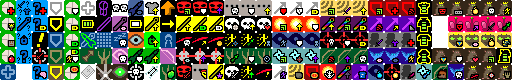
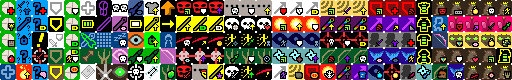
added big rush

Changed region(s): [[0.8438, 0.2, 0.875, 0.6], [0.0938, 0.4, 0.125, 0.6], [0.0312, 0.8, 0.0625, 1.0]]

diff --git a/core/src/main/java/com/zrp200/rkpd2/actors/hero/Talent.java b/core/src/main/java/com/zrp200/rkpd2/actors/hero/Talent.java
@@ -76,7 +76,7 @@ public enum Talent {
 	//Warrior T1
 	HEARTY_MEAL(0), ARMSMASTERS_INTUITION(1), TEST_SUBJECT(2), IRON_WILL(3),
 	//Warrior T2
-	IRON_STOMACH(4), RESTORED_WILLPOWER(5), RUNIC_TRANSFERENCE(6), LETHAL_MOMENTUM(7), IMPROVISED_PROJECTILES(8),
+	IRON_STOMACH(4), RESTORED_WILLPOWER(5), RUNIC_TRANSFERENCE(6), LETHAL_MOMENTUM(7), IMPROVISED_PROJECTILES(8), BIG_RUSH(67),
 	//Warrior T3
 	HOLD_FAST(9, 3), STRONGMAN(10, 3),
 	//Berserker T3
@@ -93,7 +93,7 @@ public enum Talent {
 	//Mage T1
 	ENERGIZING_MEAL_I(36), SCHOLARS_INTUITION(33), TESTED_HYPOTHESIS(34), BACKUP_BARRIER(35),
 	//Mage T2
-	ENERGIZING_MEAL_II(36), ENERGIZING_UPGRADE(37), WAND_PRESERVATION(38), ARCANE_VISION(39), SHIELD_BATTERY(40),
+	ENERGIZING_MEAL_II(36), ENERGIZING_UPGRADE(37), WAND_PRESERVATION(38), ARCANE_VISION(39), SHIELD_BATTERY(40), PYROMANIAC(129),
 	//Mage T3
 	EMPOWERING_SCROLLS(41, 3), ALLY_WARP(42, 3),
 	//Battlemage T3
@@ -110,7 +110,7 @@ public enum Talent {
 	//Rogue T1
 	CACHED_RATIONS(64), THIEFS_INTUITION(65), SUCKER_PUNCH(66), MENDING_SHADOWS(128),
 	//Rogue T2
-	MYSTICAL_MEAL(68), MYSTICAL_UPGRADE(69), WIDE_SEARCH(70), SILENT_STEPS(71), ROGUES_FORESIGHT(72),
+	MYSTICAL_MEAL(68), MYSTICAL_UPGRADE(69), WIDE_SEARCH(70), SILENT_STEPS(71), ROGUES_FORESIGHT(72), EFFICIENT_SHADOWS(59),
 	//Rogue T3
 	ENHANCED_RINGS(73, 3), LIGHT_CLOAK(74, 3),
 	//Assassin T3
@@ -127,7 +127,7 @@ public enum Talent {
 	//Huntress T1
 	NATURES_BOUNTY(96), SURVIVALISTS_INTUITION(97), FOLLOWUP_STRIKE(98), NATURES_AID(99),
 	//Huntress T2
-	INVIGORATING_MEAL(132), RESTORED_NATURE(101), REJUVENATING_STEPS(102), HEIGHTENED_SENSES(103), DURABLE_PROJECTILES(104),
+	INVIGORATING_MEAL(132), RESTORED_NATURE(101), REJUVENATING_STEPS(102), HEIGHTENED_SENSES(103), DURABLE_PROJECTILES(104), SCOURGING_THE_UNIVERSE(91),
 	//Huntress T3
 	POINT_BLANK(105, 3), SEER_SHOT(106, 3),
 	//Sniper T3
@@ -207,6 +207,7 @@ public enum Talent {
 		public int icon() { return BuffIndicator.TIME; }
 		public void tintIcon(Image icon) { icon.hardlight(0.15f, 0.2f, 0.5f); }
 	};
+	public static class BigRushTracker extends FlavourBuff{};
 	public static class LethalMomentumTracker extends FlavourBuff{};
 	public static class WandPreservationCounter extends CounterBuff{};
 	public static class EmpoweredStrikeTracker extends FlavourBuff{};
@@ -686,7 +687,7 @@ public enum Talent {
 		//tier 2
 		switch (cls){
 			case WARRIOR: default:
-				Collections.addAll(tierTalents, IRON_STOMACH, RESTORED_WILLPOWER, RUNIC_TRANSFERENCE, LETHAL_MOMENTUM, IMPROVISED_PROJECTILES);
+				Collections.addAll(tierTalents, IRON_STOMACH, RESTORED_WILLPOWER, RUNIC_TRANSFERENCE, LETHAL_MOMENTUM, IMPROVISED_PROJECTILES, BIG_RUSH);
 				break;
 			case MAGE:
 				Collections.addAll(tierTalents, ENERGIZING_MEAL_II, ENERGIZING_UPGRADE, WAND_PRESERVATION, ARCANE_VISION, SHIELD_BATTERY);

diff --git a/core/src/main/java/com/zrp200/rkpd2/actors/hero/Hero.java b/core/src/main/java/com/zrp200/rkpd2/actors/hero/Hero.java
@@ -529,6 +529,12 @@ public class Hero extends Char {
 		if (endure != null) {
 			dmg = endure.damageFactor(dmg);
 		}
+		if (buff(Talent.BigRushTracker.class) != null){
+			BrokenSeal.WarriorShield shield = buff(BrokenSeal.WarriorShield.class);
+			if (shield != null && shield.maxShield() > 0){
+				dmg += pointsInTalent(Talent.BIG_RUSH)/3f*shield.maxShield();
+			}
+		}
 
 		return buff( Fury.class ) != null ? (int)(dmg * 1.5f) : dmg;
 	}
@@ -1389,7 +1395,9 @@ public class Hero extends Char {
 			else if (path.getLast() != target)
 				newPath = true;
 			else {
-				if (!Dungeon.level.passable[path.get(0)] || Actor.findChar(path.get(0)) != null) {
+				if (!Dungeon.level.passable[path.get(0)]) {
+					newPath = true;
+				} else if (Actor.findChar(path.get(0)) != null) {
 					newPath = true;
 				}
 			}
@@ -1405,7 +1413,7 @@ public class Hero extends Char {
 					passable[i] = p[i] && (v[i] || m[i]);
 				}
 
-				PathFinder.Path newpath = Dungeon.findPath(this, target, passable, fieldOfView, true);
+				PathFinder.Path newpath = Dungeon.findPath(this, target, passable, fieldOfView, !hasTalent(Talent.BIG_RUSH));
 				if (newpath != null && path != null && newpath.size() > 2*path.size()){
 					path = null;
 				} else {
@@ -1425,12 +1433,29 @@ public class Hero extends Char {
 			}
 
 			float speed = speed();
+			if (hasTalent(Talent.BIG_RUSH)){
+				for (Mob mob : Dungeon.level.mobs.toArray( new Mob[0] )) {
+					if (mob.alignment != Char.Alignment.ALLY && Dungeon.level.heroFOV[mob.pos]
+							&& mob.pos == step) {
+						Buff.affect(this, Talent.BigRushTracker.class, 0f);
+						enemy = mob;
+						if (enemy.isAlive() && canAttack( enemy ) && !isCharmedBy( enemy )) {
+							CellEmitter.center(pos).burst(Speck.factory(Speck.DUST), 10);
+							Camera.main.shake(2, 0.5f);
+							sprite.attack( enemy.pos );
+//								spend(attackDelay());
+							return false;
+						}
+					}
+				}
+			}
 			
 			sprite.move(pos, step);
 			move(step);
 
 			spend( 1 / speed );
 			justMoved = true;
+
 			
 			search(false);
 
